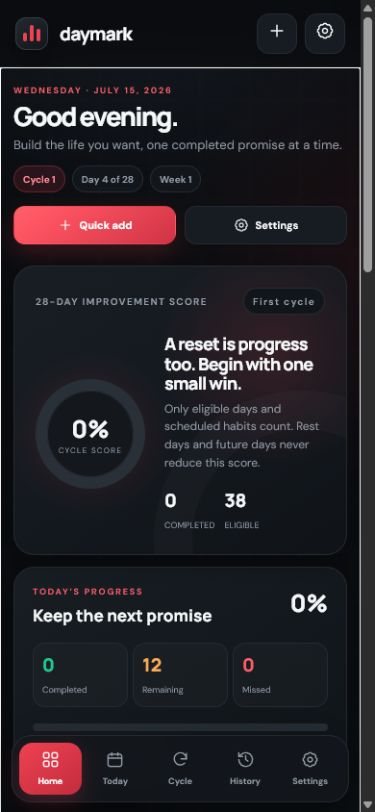
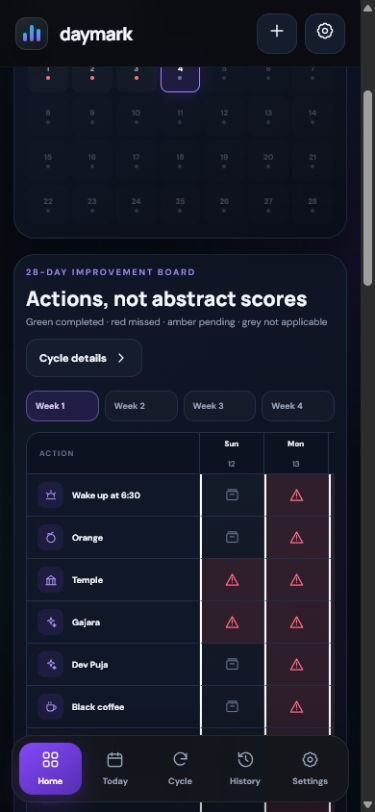
Add files via upload

diff --git a/app.js b/app.js
@@ -1,6 +1,6 @@
 import {
   CATEGORY_LABELS, DEFAULT_CYCLE_START, addDays, completionFraction, completionStreaks, consistencyLeaders,
-  cycleForDate, cycleWeeks, dateKey, datesInRange, entryFor, formatRange, habitState, habitStats, isFuture,
+  cycleForDate, cycleWeeks, dateKey, datesInRange, entryFor, formatRange, habitState, habitStats, isFuture, isPast,
   isScheduled, parseDate, scoreDay, scorePeriod, streakForHabit, weightStats
 } from "./model.js";
 import { DaymarkStore } from "./storage.js";
@@ -11,7 +11,26 @@ let state = store.state;
 let activeView = "dashboard";
 let selectedDate = dateKey(new Date());
 let selectedCycleIndex = Math.max(0, cycleForDate(new Date(), state.settings.cycleAnchor).index);
+let dashboardWeek = Math.max(0, Math.min(3, cycleForDate(new Date(), state.settings.cycleAnchor).week-1));
 let inputTimer;
+
+const DASHBOARD_ACTIONS = [
+  {key:"wake",label:"Wake up at 6:30",habitId:"wake-630",icon:"sunrise"},
+  {key:"orange",label:"Orange",habitId:"orange",icon:"orange"},
+  {key:"temple",label:"Temple",habitId:"temple-ritual",subtaskIds:["visited","shiva-water"],icon:"temple"},
+  {key:"gajara",label:"Gajara",habitId:"temple-ritual",subtaskIds:["parvati-gajra"],icon:"spark"},
+  {key:"devpuja",label:"Dev Puja",habitId:"dev-puja",icon:"spark"},
+  {key:"coffee",label:"Black coffee",habitId:"black-coffee",icon:"coffee"},
+  {key:"workout",label:"Workout",habitId:"workout",icon:"dumbbell"},
+  {key:"physio",label:"Back physiotherapy",habitId:"back-physio",icon:"physio"},
+  {key:"kegel1",label:"Kegel 1",habitId:"kegel",subtaskIds:["morning"],icon:"activity"},
+  {key:"soya",label:"Protein soya chunks",habitId:"soya-rice",icon:"bowl"},
+  {key:"amla",label:"Amla drink",habitId:"avla-drink",icon:"leaf"},
+  {key:"paneer",label:"Paneer bhurji",habitId:"protein-lunch",icon:"utensils"},
+  {key:"kegel2",label:"Kegel 2",habitId:"kegel",subtaskIds:["evening"],icon:"activity"},
+  {key:"beetroot",label:"Beetroot juice",habitId:"beetroot-juice",icon:"drop"},
+  {key:"night",label:"Night exercise",habitId:"evening-activity",icon:"footsteps",activity:true}
+];
 
 const $ = selector => document.querySelector(selector);
 const $$ = selector => [...document.querySelectorAll(selector)];
@@ -50,7 +69,7 @@ function render(){
 
 function applyTheme(){
   document.body.classList.add("dark");
-  document.querySelector('meta[name="theme-color"]').content="#090b0e";
+  document.querySelector('meta[name="theme-color"]').content="#070a12";
 }
 
 function renderSidebar(){
@@ -76,34 +95,56 @@ function getInsights(cycle){
   return insights.slice(0,3);
 }
 
+function dashboardActionStatus(action,date){
+  const habit=state.habits.find(item=>item.id===action.habitId);
+  if(!habit||!isScheduled(habit,date))return"not-scheduled";
+  if(isFuture(date))return"upcoming";
+  if(!action.subtaskIds)return habitState(state,habit,date);
+  const subtasks=entryFor(state,habit.id,date).subtasks||{};
+  const completed=action.subtaskIds.filter(id=>subtasks[id]).length;
+  if(completed===action.subtaskIds.length)return"completed";
+  if(completed>0)return"partial";
+  return isPast(date)?"missed":"pending";
+}
+
+function dashboardStateIcon(status){return icon(status==="completed"?"check":status==="missed"?"alert":status==="upcoming"?"lock":status==="not-scheduled"?"archive":"clock");}
+
+function compactCalendarMarkup(cycle,selected){
+  return `<div class="compact-calendar-labels">${["S","M","T","W","T","F","S"].map(day=>`<span>${day}</span>`).join("")}</div><div class="compact-calendar-grid">${datesInRange(cycle.start,cycle.end).map((date,index)=>{
+    const statuses=DASHBOARD_ACTIONS.map(action=>dashboardActionStatus(action,date));
+    const eligible=statuses.filter(status=>!["not-scheduled","upcoming"].includes(status));
+    const done=statuses.filter(status=>status==="completed").length;
+    const level=isFuture(date)?"future":eligible.length&&done===eligible.length?"complete":done?"progress":statuses.includes("missed")?"missed":"empty";
+    return `<button class="compact-day ${level} ${date===dateKey(new Date())?"today":""} ${date===selected?"selected":""}" data-dashboard-date="${date}" aria-label="Open ${displayDate(date)}"><strong>${index+1}</strong><i></i></button>`;
+  }).join("")}</div>`;
+}
+
+function actionMatrixMarkup(cycle){
+  const weeks=cycleWeeks(cycle),week=weeks[dashboardWeek],dates=datesInRange(week.start,week.end);
+  return `<div class="week-tabs" role="tablist" aria-label="Choose cycle week">${weeks.map((item,index)=>`<button class="${dashboardWeek===index?"active":""}" data-dashboard-week="${index}" role="tab" aria-selected="${dashboardWeek===index}"><span>Week ${index+1}</span><small>${formatRange(item.start,item.end)}</small></button>`).join("")}</div>
+    <div class="action-matrix-scroll"><div class="action-matrix"><div class="matrix-corner">ACTION</div>${dates.map(date=>`<div class="matrix-day"><strong>${displayDate(date,{weekday:"short"})}</strong><span>${displayDate(date,{day:"numeric"})}</span></div>`).join("")}${DASHBOARD_ACTIONS.map(action=>`<div class="matrix-action"><span class="action-symbol">${icon(action.icon)}</span><strong>${escapeHtml(action.label)}</strong></div>${dates.map(date=>{const status=dashboardActionStatus(action,date);return`<button class="matrix-state ${status}" data-dashboard-date="${date}" aria-label="${escapeHtml(action.label)} on ${displayDate(date)}: ${stateLabel(status)}" title="${stateLabel(status)}">${dashboardStateIcon(status)}</button>`;}).join("")}`).join("")}</div></div>`;
+}
+
+function dailyActionCardsMarkup(date){
+  return DASHBOARD_ACTIONS.map(action=>{
+    const habit=state.habits.find(item=>item.id===action.habitId),status=dashboardActionStatus(action,date),disabled=["not-scheduled","upcoming"].includes(status),entry=entryFor(state,action.habitId,date);
+    const control=action.activity?`<div class="mini-activity"><button class="${entry.activity==="swimming"?"selected":""}" data-activity="swimming" data-habit-id="${action.habitId}" data-date="${date}" ${disabled?"disabled":""}>Swim</button><button class="${entry.activity==="walking"?"selected":""}" data-activity="walking" data-habit-id="${action.habitId}" data-date="${date}" ${disabled?"disabled":""}>Walk</button>${entry.activity?`<button data-activity="" data-habit-id="${action.habitId}" data-date="${date}">Clear</button>`:""}</div>`:`<button class="action-check ${status==="completed"?"done":""}" data-dashboard-toggle="${action.key}" data-date="${date}" ${disabled?"disabled":""} aria-label="${status==="completed"?"Mark incomplete":"Mark complete"}: ${escapeHtml(action.label)}">${status==="completed"?icon("check"):dashboardStateIcon(status)}</button>`;
+    return `<article class="daily-action-card ${status}"><div class="daily-action-icon">${icon(action.icon)}</div><div><h3>${escapeHtml(action.label)}</h3><p>${habit?formatTime(habit.time):"Anytime"} · ${stateLabel(status)}</p></div>${control}</article>`;
+  }).join("");
+}
+
 function renderDashboard(){
-  const cycle=currentCycle(),today=dateKey(new Date()),todayStats=scoreDay(state,today),cycleStats=scorePeriod(state,cycle.start,cycle.end);
-  const weeks=cycleWeeks(cycle),weekStats=weeks.map(week=>scorePeriod(state,week.start,week.end));
-  const currentWeek=weeks[cycle.week-1],previousWeek=weeks[cycle.week-2];
-  const delta=previousWeek?((scorePeriod(state,currentWeek.start,currentWeek.end).score||0)-(scorePeriod(state,previousWeek.start,previousWeek.end).score||0)):0;
-  const totalActivities=cycleStats.completed+cycleStats.missed+cycleStats.partial+cycleStats.pending;
-  const weights=weightStats(state,cycle);
-  const chips=`<span class="chip accent">Cycle ${cycle.number}</span><span class="chip">Day ${cycle.day} of 28</span><span class="chip">Week ${cycle.week}</span>`;
-  const actions=`<button class="button primary" data-action="quick-add">${icon("plus")} Quick add</button><button class="button" data-action="open-settings">${icon("settings")} Settings</button>`;
+  const cycle=currentCycle(),today=dateKey(new Date()),viewDate=selectedDate,weights=weightStats(state,cycle);
+  const statuses=DASHBOARD_ACTIONS.map(action=>dashboardActionStatus(action,viewDate));
+  const completed=statuses.filter(status=>status==="completed").length,pending=statuses.filter(status=>["pending","partial"].includes(status)).length,missed=statuses.filter(status=>status==="missed").length,rest=statuses.filter(status=>status==="not-scheduled").length;
   $("#dashboardContent").innerHTML=`
-    ${headerMarkup(`${displayDate(today,{weekday:"long"}).toUpperCase()} · ${displayDate(today,{month:"long",day:"numeric",year:"numeric"}).toUpperCase()}`,`${greeting()}${state.settings.name?`, ${state.settings.name}`:""}.`,"Build the life you want, one completed promise at a time.",actions,chips)}
-    <div class="dashboard-grid">
-      <section class="card score-card">
-        <div class="score-card-head"><span>28-DAY IMPROVEMENT SCORE</span>${previousWeek?`<span class="delta ${delta<0?"down":""}">${delta>=0?"+":""}${delta}% vs last week</span>`:"<span class=\"chip\">First cycle</span>"}</div>
-        <div class="score-layout"><div class="score-ring" style="--score:${cycleStats.score||0}"><div><strong>${scoreText(cycleStats.score)}</strong><span>CYCLE SCORE</span></div></div>
-          <div class="score-copy"><h2>${motivationalMessage(cycleStats.score)}</h2><p>Only eligible days and scheduled habits count. Rest days and future days never reduce this score.</p><div class="score-facts"><div><strong>${cycleStats.completed}</strong><span>COMPLETED</span></div><div><strong>${totalActivities}</strong><span>ELIGIBLE</span></div></div></div>
-        </div>
-      </section>
-      <section class="card today-card"><div class="card-title-row"><div><p class="kicker">TODAY’S PROGRESS</p><h2>Keep the next promise</h2></div><strong class="mini-score">${scoreText(todayStats.score)}</strong></div>
-        <div class="metric-row"><div class="metric success"><strong>${todayStats.completed}</strong><span>Completed</span></div><div class="metric warning"><strong>${todayStats.pending+todayStats.partial}</strong><span>Remaining</span></div><div class="metric danger"><strong>${todayStats.missed}</strong><span>Missed</span></div></div>
-        <div class="progress-track"><div class="progress-fill green" style="--value:${todayStats.score||0}"></div></div><button class="button ghost" data-action="show-today" style="margin-top:13px">Open today’s checklist ${icon("arrowRight")}</button>
-      </section>
-      <section class="card weight-card">${weightCardMarkup(weights,today)}</section>
+    <div class="dashboard-hero">
+      <header class="dashboard-welcome"><p class="kicker">${displayDate(today,{weekday:"long",month:"long",day:"numeric",year:"numeric"}).toUpperCase()}</p><h1>${greeting()}${state.settings.name?`, ${state.settings.name}`:""}.</h1><p>Your 28-day action console—simple, visual, and built for consistency.</p><div class="header-chips"><span class="chip accent">Cycle ${cycle.number}</span><span class="chip">Day ${cycle.day} of 28</span><span class="chip">Week ${cycle.week}</span></div><div class="hero-actions"><button class="button primary" data-action="quick-add">${icon("plus")} Quick add</button><button class="button" data-action="open-settings">${icon("settings")} Settings</button></div></header>
+      <section class="card compact-calendar-card"><div class="compact-calendar-head"><div><p class="kicker">28 DAYS</p><h2>${formatRange(cycle.start,cycle.end)}</h2></div><span>Tap a day</span></div>${compactCalendarMarkup(cycle,viewDate)}</section>
     </div>
-    <section class="section"><div class="section-heading"><div><h2>Four-week cycle</h2><p>${formatRange(cycle.start,cycle.end)} · four complete Sunday–Saturday weeks</p></div><button class="text-button" data-view="cycle">Open cycle</button></div><div class="week-grid">${weeks.map((week,index)=>weekCardMarkup(week,weekStats[index],cycle.week===index+1)).join("")}</div></section>
-    <section class="section card" style="padding:17px"><div class="section-heading"><div><h2>28-day rhythm</h2><p>Every square is a real eligible day—future days stay neutral.</p></div></div>${heatmapMarkup(cycle,selectedDate)}</section>
-    <section class="section"><div class="section-heading"><div><h2>Today’s routine</h2><p>Grouped habits with schedule-aware status</p></div><button class="text-button" data-action="show-today">View all</button></div><div class="routine-preview">${routinePreviewMarkup(today)}</div></section>
-    <section class="section"><div class="section-heading"><div><h2>Data-based insights</h2><p>Calculated only from your saved activity</p></div></div><div class="insight-list">${getInsights(cycle).map(item=>`<article class="insight"><div class="icon-wrap">${icon(item.icon)}</div><div><h3>${escapeHtml(item.title)}</h3><p>${escapeHtml(item.text)}</p></div></article>`).join("")}</div></section>`;
+    <section class="card improvement-board"><div class="board-heading"><div><p class="kicker">28-DAY IMPROVEMENT BOARD</p><h2>Actions, not abstract scores</h2><p>Green completed · red missed · amber pending · grey not applicable</p></div><button class="button" data-view="cycle">Cycle details ${icon("arrowRight")}</button></div>${actionMatrixMarkup(cycle)}</section>
+    <section class="section" id="dailyActionBoard"><div class="section-heading"><div><p class="kicker">SELECTED DAY</p><h2>${viewDate===today?"Today":displayDate(viewDate)} actions</h2><p>Update every action directly from these cards—no timeline.</p></div><button class="button" data-action="show-today" data-date="${viewDate}">Full details ${icon("arrowRight")}</button></div><div class="day-status-strip"><span class="success"><strong>${completed}</strong> Completed</span><span class="warning"><strong>${pending}</strong> Pending</span><span class="danger"><strong>${missed}</strong> Missed</span><span><strong>${rest}</strong> Not applicable</span></div><div class="daily-action-grid">${dailyActionCardsMarkup(viewDate)}</div></section>
+    <div class="dashboard-support"><section class="card weight-card">${weightCardMarkup(weights,today)}</section><section><div class="section-heading"><div><h2>Data-based insights</h2><p>Calculated only from saved activity</p></div></div><div class="insight-list">${getInsights(cycle).map(item=>`<article class="insight"><div class="icon-wrap">${icon(item.icon)}</div><div><h3>${escapeHtml(item.title)}</h3><p>${escapeHtml(item.text)}</p></div></article>`).join("")}</div></section></div>`;
 }
 
 function greeting(){const hour=new Date().getHours();return hour<12?"Good morning":hour<17?"Good afternoon":"Good evening";}
@@ -253,6 +294,11 @@ function toggleHabit(habitId,date){
   const done=completionFraction(habit,entryFor(state,habitId,date))===1;
   store.setEntry(date,habitId,{status:done?"pending":"completed"});syncState();render();showToast(done?"Marked pending":"Habit completed");
 }
+function toggleDashboardAction(actionKey,date){
+  const action=DASHBOARD_ACTIONS.find(item=>item.key===actionKey),habit=state.habits.find(item=>item.id===action?.habitId);if(!action||!habit)return;
+  if(action.subtaskIds){const entry=entryFor(state,habit.id,date),subtasks={...(entry.subtasks||{})},done=action.subtaskIds.every(id=>subtasks[id]);action.subtaskIds.forEach(id=>{subtasks[id]=!done;});store.setEntry(date,habit.id,{subtasks});syncState();render();showToast(done?`${action.label} marked pending`:`${action.label} completed`);return;}
+  toggleHabit(habit.id,date);
+}
 function setSubtask(habitId,subtaskId,date,checked){const current=entryFor(state,habitId,date);store.setEntry(date,habitId,{subtasks:{...(current.subtasks||{}),[subtaskId]:checked}});syncState();render();}
 function saveEntryField(input){const value=input.type==="number"?(input.value===""?null:Number(input.value)):input.value;store.setEntry(input.dataset.date,input.dataset.habitId,{[input.dataset.entryField]:value});syncState();render();showToast("Saved automatically");}
 
@@ -279,8 +325,11 @@ document.addEventListener("click",event=>{
   const nav=event.target.closest("[data-view]");if(nav){showView(nav.dataset.view);return;}
   const viewLink=event.target.closest("[data-view-link]");if(viewLink){event.preventDefault();showView(viewLink.dataset.viewLink);return;}
   const action=event.target.closest("[data-action]")?.dataset.action;
-  if(action==="quick-add"){openDialog("quickAddDialog");return;}if(action==="open-settings"){showView("settings");return;}if(action==="show-today"){selectedDate=dateKey(new Date());renderToday();showView("today");return;}if(action==="record-weight"){openWeightDialog(event.target.closest("[data-date]")?.dataset.date||selectedDate);return;}if(action==="export"){exportData();return;}if(action==="import"){$("#importInput").click();return;}if(action==="reset"){if(confirm("Reset Daymark v3 data? Your legacy daymark-v1 data will remain untouched.")){store.reset();syncState();selectedCycleIndex=0;render();showToast("Daymark reset");}return;}
+  if(action==="quick-add"){openDialog("quickAddDialog");return;}if(action==="open-settings"){showView("settings");return;}if(action==="show-today"){selectedDate=event.target.closest("[data-date]")?.dataset.date||dateKey(new Date());renderToday();showView("today");return;}if(action==="record-weight"){openWeightDialog(event.target.closest("[data-date]")?.dataset.date||selectedDate);return;}if(action==="export"){exportData();return;}if(action==="import"){$("#importInput").click();return;}if(action==="reset"){if(confirm("Reset Daymark v3 data? Your legacy daymark-v1 data will remain untouched.")){store.reset();syncState();selectedCycleIndex=0;render();showToast("Daymark reset");}return;}
   const close=event.target.closest("[data-close-dialog]");if(close){closeDialog(close.dataset.closeDialog);return;}
+  const dashboardDate=event.target.closest("[data-dashboard-date]");if(dashboardDate){selectedDate=dashboardDate.dataset.dashboardDate;dashboardWeek=Math.max(0,Math.min(3,cycleForDate(selectedDate,state.settings.cycleAnchor).week-1));renderDashboard();renderIconSlots($("#dashboardView"));setTimeout(()=>$("#dailyActionBoard")?.scrollIntoView({behavior:"smooth",block:"start"}),20);return;}
+  const weekTab=event.target.closest("[data-dashboard-week]");if(weekTab){dashboardWeek=Number(weekTab.dataset.dashboardWeek);renderDashboard();renderIconSlots($("#dashboardView"));return;}
+  const dashboardToggle=event.target.closest("[data-dashboard-toggle]");if(dashboardToggle){toggleDashboardAction(dashboardToggle.dataset.dashboardToggle,dashboardToggle.dataset.date);return;}
   const toggle=event.target.closest("[data-toggle-habit]");if(toggle){toggleHabit(toggle.dataset.toggleHabit,toggle.dataset.date);return;}
   const taskToggle=event.target.closest("[data-toggle-task]");if(taskToggle){store.update(s=>{const task=s.oneTimeTasks.find(t=>t.id===taskToggle.dataset.toggleTask);if(task)task.completed=!task.completed;});syncState();render();return;}
   const select=event.target.closest("[data-select-date]");if(select){selectedDate=select.dataset.selectDate;render();showView("today");closeDialog("habitDialog");return;}

diff --git a/styles.css b/styles.css
@@ -1,10 +1,10 @@
 :root {
   color-scheme: dark;
-  --bg:#090b0e; --bg-soft:#0e1115; --panel:#12161b; --panel-2:#171c22; --panel-3:#1d232a;
-  --text:#f5f7f8; --muted:#929aa5; --muted-2:#68717d; --line:#252b33; --line-strong:#343c46;
-  --accent:#e33c4f; --accent-bright:#ff5a68; --accent-soft:rgba(227,60,79,.13);
-  --green:#53c68c; --green-soft:rgba(83,198,140,.13); --amber:#f4a84d; --amber-soft:rgba(244,168,77,.13);
-  --red:#f05a68; --red-soft:rgba(240,90,104,.13); --blue:#6ca9ff; --grey:#7b8490;
+  --bg:#070a12; --bg-soft:#0b101c; --panel:#101725; --panel-2:#151e2e; --panel-3:#1b2638;
+  --text:#f4f7ff; --muted:#98a4b8; --muted-2:#66738a; --line:#243047; --line-strong:#354561;
+  --accent:#7657ff; --accent-bright:#9b87ff; --accent-soft:rgba(118,87,255,.15);
+  --green:#2dd49b; --green-soft:rgba(45,212,155,.13); --amber:#f5b84b; --amber-soft:rgba(245,184,75,.14);
+  --red:#ff667a; --red-soft:rgba(255,102,122,.13); --blue:#35c6ff; --grey:#7b879b;
   --shadow:0 24px 70px rgba(0,0,0,.28); --shadow-sm:0 10px 30px rgba(0,0,0,.18);
   --radius:22px; --radius-sm:15px; --sidebar:236px;
 }
@@ -74,3 +74,25 @@ body:not(.dark) .card{background:linear-gradient(145deg,#fffdfa,#f7f3ec)}
 @media(prefers-reduced-motion:reduce){*,*::before,*::after{animation-duration:.01ms!important;transition-duration:.01ms!important;scroll-behavior:auto!important}}
 .habit-copy{min-width:0;cursor:pointer}
 .activity-choice{grid-template-columns:repeat(3,1fr)}
+
+/* Action-console dashboard and refreshed graphite/violet theme */
+.ambient-bg{background:radial-gradient(circle at 72% -8%,rgba(80,105,220,.18),transparent 34%),radial-gradient(circle at 20% 65%,rgba(20,184,166,.08),transparent 32%),var(--bg)}
+.ambient-bg span:nth-child(1){background:radial-gradient(circle,rgba(118,87,255,.3),transparent 68%)}
+.ambient-bg span:nth-child(2){background:radial-gradient(circle,rgba(53,198,255,.12),transparent 68%)}
+.card{border-color:rgba(99,119,153,.22);background:linear-gradient(145deg,rgba(17,25,40,.97),rgba(10,15,26,.97));box-shadow:0 16px 50px rgba(0,0,0,.24)}
+.button.primary,.primary-button{background:linear-gradient(135deg,#8066ff,#5c43d6);box-shadow:0 10px 28px rgba(118,87,255,.28)}
+.nav-item.active{background:linear-gradient(145deg,#7657ff,#4e38b8);box-shadow:0 8px 24px rgba(118,87,255,.25)}
+.main-nav .nav-item.active{background:rgba(118,87,255,.14);color:#b9adff;box-shadow:inset 3px 0 #8066ff}
+.brand-mark i{background:linear-gradient(#35c6ff,#8066ff)}
+.chip.accent{color:#b9adff;border-color:rgba(155,135,255,.32);background:var(--accent-soft)}
+.dashboard-hero{display:grid;gap:14px;align-items:stretch;margin-bottom:16px}
+.dashboard-welcome{padding:6px 1px 2px}.dashboard-welcome h1{margin:0 0 8px;font:800 clamp(30px,7vw,48px)/1 "Manrope";letter-spacing:-2px}.dashboard-welcome>p:not(.kicker){margin:0;max-width:580px;color:var(--muted);font-size:13px}.hero-actions{display:flex;flex-wrap:wrap;gap:8px;margin-top:16px}
+.compact-calendar-card{padding:14px;align-self:start}.compact-calendar-head{display:flex;align-items:flex-start;justify-content:space-between;gap:10px;margin-bottom:10px}.compact-calendar-head h2{margin:0;font:800 12px "Manrope"}.compact-calendar-head>span{color:var(--muted-2);font-size:8px}.compact-calendar-labels,.compact-calendar-grid{display:grid;grid-template-columns:repeat(7,1fr);gap:4px}.compact-calendar-labels{margin-bottom:4px;text-align:center;color:var(--muted-2);font-size:7px;font-weight:800}.compact-day{aspect-ratio:1;min-width:0;display:grid;place-items:center;align-content:center;gap:3px;border:1px solid transparent;border-radius:8px;background:rgba(255,255,255,.025);color:var(--muted);font-size:8px}.compact-day i{width:4px;height:4px;border-radius:50%;background:var(--muted-2)}.compact-day.complete i{background:var(--green)}.compact-day.progress i{background:var(--amber)}.compact-day.missed i{background:var(--red)}.compact-day.future{opacity:.35}.compact-day.today{border-color:var(--blue)}.compact-day.selected{background:var(--accent-soft);border-color:var(--accent-bright);color:#fff;box-shadow:0 0 16px rgba(118,87,255,.2)}
+.improvement-board{padding:17px;overflow:hidden}.board-heading{display:flex;align-items:flex-start;justify-content:space-between;gap:14px;margin-bottom:14px}.board-heading h2{margin:0 0 4px;font:800 21px "Manrope"}.board-heading p:not(.kicker){margin:0;color:var(--muted);font-size:10px}.week-tabs{display:grid;grid-template-columns:repeat(4,1fr);gap:6px;margin-bottom:11px}.week-tabs button{display:grid;gap:2px;padding:9px;border:1px solid var(--line);border-radius:11px;background:rgba(255,255,255,.025);color:var(--muted);text-align:left}.week-tabs span{font-size:9px;font-weight:800}.week-tabs small{font-size:7px}.week-tabs button.active{border-color:rgba(155,135,255,.45);background:var(--accent-soft);color:#d8d1ff}
+.action-matrix-scroll{overflow-x:auto;padding-bottom:5px;scrollbar-width:thin}.action-matrix{min-width:720px;display:grid;grid-template-columns:minmax(180px,1.5fr) repeat(7,minmax(54px,1fr));border:1px solid var(--line);border-radius:15px;overflow:hidden}.matrix-corner,.matrix-day,.matrix-action,.matrix-state{min-height:43px;border-right:1px solid var(--line);border-bottom:1px solid var(--line)}.matrix-corner,.matrix-day{display:grid;place-items:center;background:#0c1320}.matrix-corner{justify-content:start;padding:0 13px;color:var(--muted-2);font-size:8px;font-weight:800;letter-spacing:1px}.matrix-day strong{font-size:8px}.matrix-day span{color:var(--muted);font-size:8px}.matrix-action{position:sticky;left:0;z-index:2;display:flex;align-items:center;gap:9px;padding:8px 11px;background:#101827}.matrix-action strong{font-size:9px}.action-symbol{width:27px;height:27px;display:grid;place-items:center;border-radius:8px;background:rgba(118,87,255,.12);color:#a897ff}.action-symbol .icon{width:14px;height:14px}.matrix-state{display:grid;place-items:center;border-top:0;background:rgba(255,255,255,.015)}.matrix-state .icon{width:15px;height:15px}.matrix-state.completed{color:var(--green);background:var(--green-soft)}.matrix-state.missed{color:var(--red);background:var(--red-soft)}.matrix-state.pending,.matrix-state.partial{color:var(--amber);background:var(--amber-soft)}.matrix-state.not-scheduled,.matrix-state.upcoming{color:var(--muted-2);background:rgba(105,118,140,.06)}
+.day-status-strip{display:flex;flex-wrap:wrap;gap:7px;margin-bottom:11px}.day-status-strip span{padding:7px 10px;border:1px solid var(--line);border-radius:99px;background:var(--panel);color:var(--muted);font-size:9px}.day-status-strip strong{color:var(--text)}.day-status-strip .success{border-color:rgba(45,212,155,.22);color:var(--green)}.day-status-strip .warning{border-color:rgba(245,184,75,.22);color:var(--amber)}.day-status-strip .danger{border-color:rgba(255,102,122,.22);color:var(--red)}
+.daily-action-grid{display:grid;gap:8px}.daily-action-card{min-height:72px;display:grid;grid-template-columns:40px minmax(0,1fr) auto;gap:10px;align-items:center;padding:10px 11px;border:1px solid var(--line);border-radius:15px;background:linear-gradient(145deg,rgba(20,29,44,.95),rgba(12,18,30,.95))}.daily-action-card.completed{border-color:rgba(45,212,155,.24)}.daily-action-card.missed{border-color:rgba(255,102,122,.24)}.daily-action-card.partial,.daily-action-card.pending{border-color:rgba(245,184,75,.2)}.daily-action-card.not-scheduled,.daily-action-card.upcoming{opacity:.58}.daily-action-icon{width:40px;height:40px;display:grid;place-items:center;border-radius:12px;background:linear-gradient(145deg,rgba(118,87,255,.18),rgba(53,198,255,.08));color:#aa9aff}.daily-action-icon .icon{width:19px}.daily-action-card h3{margin:0 0 3px;font-size:11px}.daily-action-card p{margin:0;color:var(--muted);font-size:8px}.action-check{width:34px;height:34px;display:grid;place-items:center;border:1px solid var(--line-strong);border-radius:11px;background:rgba(255,255,255,.025);color:var(--muted)}.action-check .icon{width:15px}.action-check.done{border-color:var(--green);background:var(--green);color:#06150f}.mini-activity{display:flex;gap:4px}.mini-activity button{min-height:31px;padding:5px 7px;border:1px solid var(--line);border-radius:8px;background:var(--panel-2);font-size:8px;font-weight:700}.mini-activity button.selected{border-color:var(--green);background:var(--green-soft);color:var(--green)}
+.dashboard-support{display:grid;gap:15px;margin-top:26px}.dashboard-support .weight-card{padding:17px}.dashboard-support .section-heading{margin-bottom:9px}
+@media(min-width:680px){.dashboard-hero{grid-template-columns:minmax(0,1fr) 310px}.daily-action-grid{grid-template-columns:repeat(2,1fr)}.dashboard-support{grid-template-columns:minmax(260px,.7fr) minmax(0,1.3fr);align-items:start}}
+@media(min-width:1120px){.daily-action-grid{grid-template-columns:repeat(3,1fr)}.compact-calendar-card{width:310px;justify-self:end}}
+@media(max-width:600px){.board-heading{display:block}.board-heading .button{margin-top:11px}.week-tabs small{display:none}.improvement-board{padding:12px}.action-matrix{min-width:650px}.dashboard-welcome .hero-actions .button{flex:1}.daily-action-card{min-height:68px}.mini-activity button{padding:5px}}

diff --git a/model.js b/model.js
@@ -10,15 +10,18 @@ export const DEFAULT_HABITS = [
     { id:"parvati-gajra", name:"Gajra offered to Goddess Parvati" }
   ]},
   { id:"black-coffee", name:"Drink black coffee", category:"morning", icon:"coffee", schedule:[1,2,3,4,5,6], time:"07:15", points:3, type:"boolean", active:true },
+  { id:"orange", name:"Eat an orange", category:"nutrition", icon:"orange", schedule:[1,2,3,4,5,6], time:"06:45", points:4, type:"boolean", active:true },
   { id:"workout", name:"Gym / workout", category:"fitness", icon:"dumbbell", schedule:[1,2,3,4,5,6], time:"07:30", points:15, type:"boolean", active:true },
+  { id:"back-physio", name:"Back physiotherapy", category:"fitness", icon:"physio", schedule:[1,2,3,4,5,6], time:"08:15", points:8, type:"boolean", active:true },
   { id:"soya-rice", name:"Post-workout soya chunks rice", category:"nutrition", icon:"bowl", schedule:[1,2,3,4,5,6], time:"09:00", points:7, type:"boolean", active:true, editableDescription:true },
   { id:"protein-lunch", name:"Protein-focused lunch", description:"Paneer bhurji and bhakri", category:"nutrition", icon:"utensils", schedule:[1,2,3,4,5,6], time:"13:00", points:7, type:"boolean", active:true, editableDescription:true },
   { id:"protein-goal", name:"Daily protein / nutrition goal", category:"nutrition", icon:"nutrition", schedule:[1,2,3,4,5,6], time:"20:00", points:8, type:"boolean", active:true, editableDescription:true },
   { id:"kegel", name:"Kegel Exercise", category:"wellness", icon:"activity", schedule:[1,2,3,4,5,6], points:9, type:"subtasks", active:true, subtasks:[
-    { id:"morning", name:"Morning session" },
-    { id:"afternoon", name:"Afternoon session" },
-    { id:"evening", name:"Evening session" }
+    { id:"morning", name:"Kegel 1" },
+    { id:"evening", name:"Kegel 2" }
   ]},
+  { id:"avla-drink", name:"Amla drink", category:"nutrition", icon:"leaf", schedule:[1,2,3,4,5,6], time:"11:00", points:4, type:"boolean", active:true },
+  { id:"beetroot-juice", name:"Beetroot juice", category:"nutrition", icon:"drop", schedule:[1,2,3,4,5,6], time:"16:30", points:4, type:"boolean", active:true },
   { id:"learning", name:"One hour of self-learning", category:"learning", icon:"book", schedule:[1,2,3,4,5], time:"19:00", points:15, type:"learning", active:true },
   { id:"dev-puja", name:"Dev Puja at home", category:"spiritual", icon:"spark", schedule:[1,2,3,4,5,6], time:"18:00", points:6, type:"boolean", active:true },
   { id:"evening-activity", name:"Evening Activity", category:"fitness", icon:"footsteps", schedule:[1,2,3,4,5,6], time:"18:30", points:10, type:"activity", active:true },

diff --git a/storage.js b/storage.js
@@ -45,10 +45,17 @@ function migrateLegacy(base, legacy) {
 function normalize(raw) {
   const initial=createInitialState();
   if(!raw || raw.version !== 3) return initial;
+  const existingHabits=Array.isArray(raw.habits) ? clone(raw.habits) : [];
+  DEFAULT_HABITS.forEach(defaultHabit=>{
+    const current=existingHabits.find(habit=>habit.id===defaultHabit.id);
+    if(!current) existingHabits.push(clone(defaultHabit));
+    if(current?.id==="kegel") current.subtasks=clone(defaultHabit.subtasks);
+    if(current?.id==="back-physio") current.category=defaultHabit.category;
+  });
   const normalized = {
     ...initial, ...raw,
     settings:{...initial.settings,...raw.settings},
-    habits:Array.isArray(raw.habits) ? raw.habits : initial.habits,
+    habits:existingHabits.length ? existingHabits : initial.habits,
     entries:raw.entries || {}, weights:raw.weights || {}, dayNotes:raw.dayNotes || {}, oneTimeTasks:raw.oneTimeTasks || []
   };
   normalized.settings.theme="dark";

diff --git a/icons.js b/icons.js
@@ -9,6 +9,10 @@ const paths = {
   sunrise:'<path d="M4 18h16M6 14a6 6 0 0 1 12 0M12 3v3M4.2 7.2l2.1 2.1m13.5-2.1-2.1 2.1"/>',
   temple:'<path d="m4 10 8-6 8 6M5 10h14v10H5Zm4 0v10m6-10v10M3 20h18"/>',
   coffee:'<path d="M5 8h12v6a5 5 0 0 1-5 5H10a5 5 0 0 1-5-5Zm12 2h1a3 3 0 0 1 0 6h-2M8 3v2m4-2v2"/>',
+  orange:'<circle cx="12" cy="13" r="7"/><path d="M12 6c0-2 1.5-3.5 4-4m-4 4c-2-2-4-2-6-1"/>',
+  physio:'<path d="M12 3v18M8 5c3 2 5 2 8 0M8 10c3 2 5 2 8 0M8 15c3 2 5 2 8 0M8 20c3-2 5-2 8 0"/>',
+  leaf:'<path d="M20 4C11 4 5 8 5 15c0 3 2 5 5 5 7 0 10-7 10-16Z"/><path d="M5 20c3-5 7-8 12-11"/>',
+  drop:'<path d="M12 3S5 11 5 16a7 7 0 0 0 14 0c0-5-7-13-7-13Z"/><path d="M9 17c.5 1.2 1.5 2 3 2"/>',
   dumbbell:'<path d="M6 7v10M3 9v6m15-8v10m3-8v6M6 12h12"/>',
   bowl:'<path d="M4 11h16a8 8 0 0 1-16 0Zm4-4c0-2 2-2 2-4m4 4c0-2 2-2 2-4"/>',
   utensils:'<path d="M7 3v8m-3-8v5a3 3 0 0 0 6 0V3M7 11v10m9-18v18m0-18c3 2 4 6 0 9"/>',

diff --git a/index.html b/index.html
@@ -3,7 +3,7 @@
   <head>
     <meta charset="UTF-8" />
     <meta name="viewport" content="width=device-width, initial-scale=1.0, viewport-fit=cover" />
-    <meta name="theme-color" content="#090b0e" />
+    <meta name="theme-color" content="#070a12" />
     <meta name="description" content="Daymark — a private 28-day personal improvement tracker." />
     <link rel="manifest" href="manifest.webmanifest" />
     <link rel="icon" href="icons/icon.svg" type="image/svg+xml" />

diff --git a/service-worker.js b/service-worker.js
@@ -1,4 +1,4 @@
-const CACHE = "daymark-v7-pwa-ready";
+const CACHE = "daymark-v8-action-console";
 const ASSETS = [
   "./", "./index.html", "./styles.css", "./app.js", "./model.js", "./storage.js", "./icons.js",
   "./manifest.webmanifest", "./icons/icon.svg", "./icons/icon-192.png", "./icons/icon-512.png",

diff --git a/README.md b/README.md
@@ -5,6 +5,8 @@ Daymark is a private, installable personal-improvement dashboard built around fi
 ## What is included
 
 - Premium responsive dashboard, full Today checklist, Cycle analysis, History, and Settings views
+- Compact clickable 28-day calendar, four week action-status matrix, and direct selected-day action cards
+- Dedicated routine actions for orange, back physiotherapy, Amla drink, beetroot juice, Temple/Gajara, and two Kegel sessions
 - Sunday-aware schedules and fair points-based scoring that excludes future and not-scheduled habits
 - Temple ritual and Kegel sub-checks with partial credit
 - Automatic one-hour learning completion with manual correction